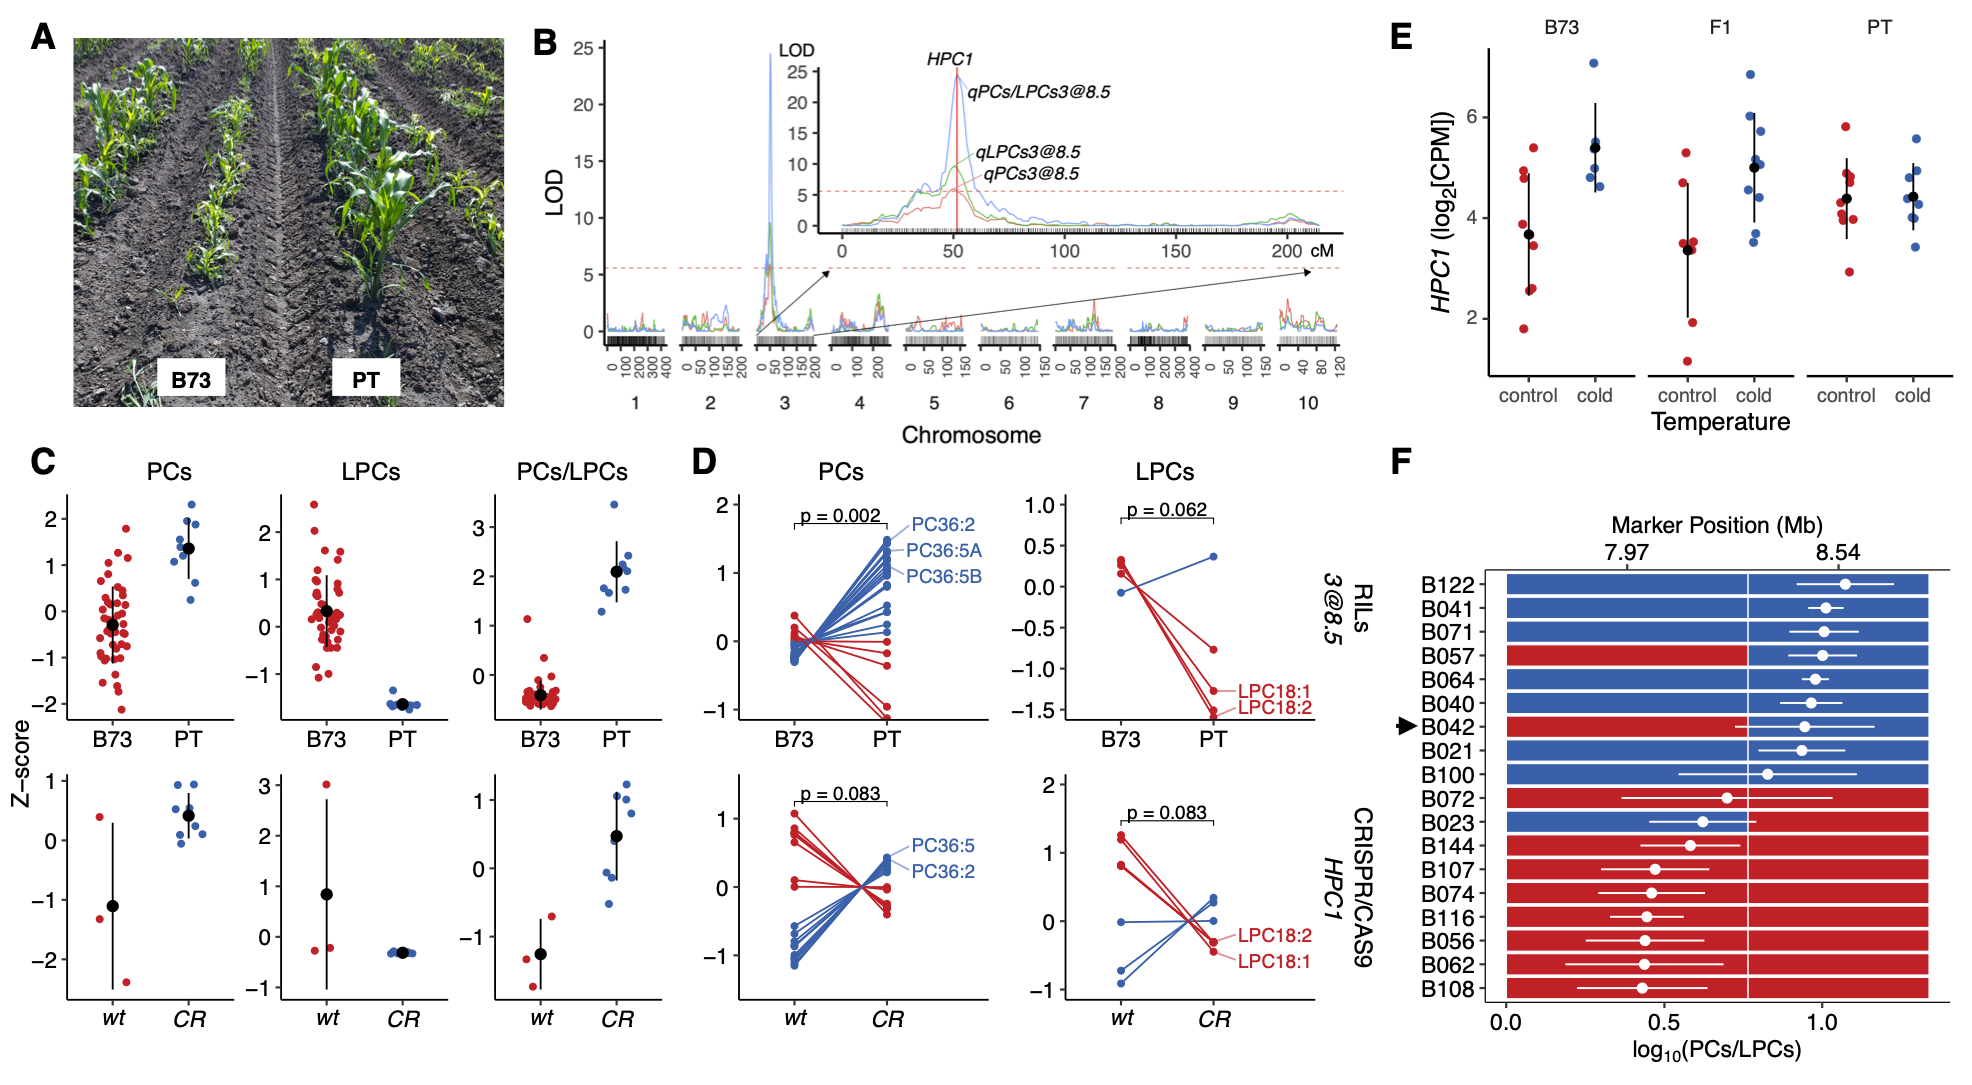
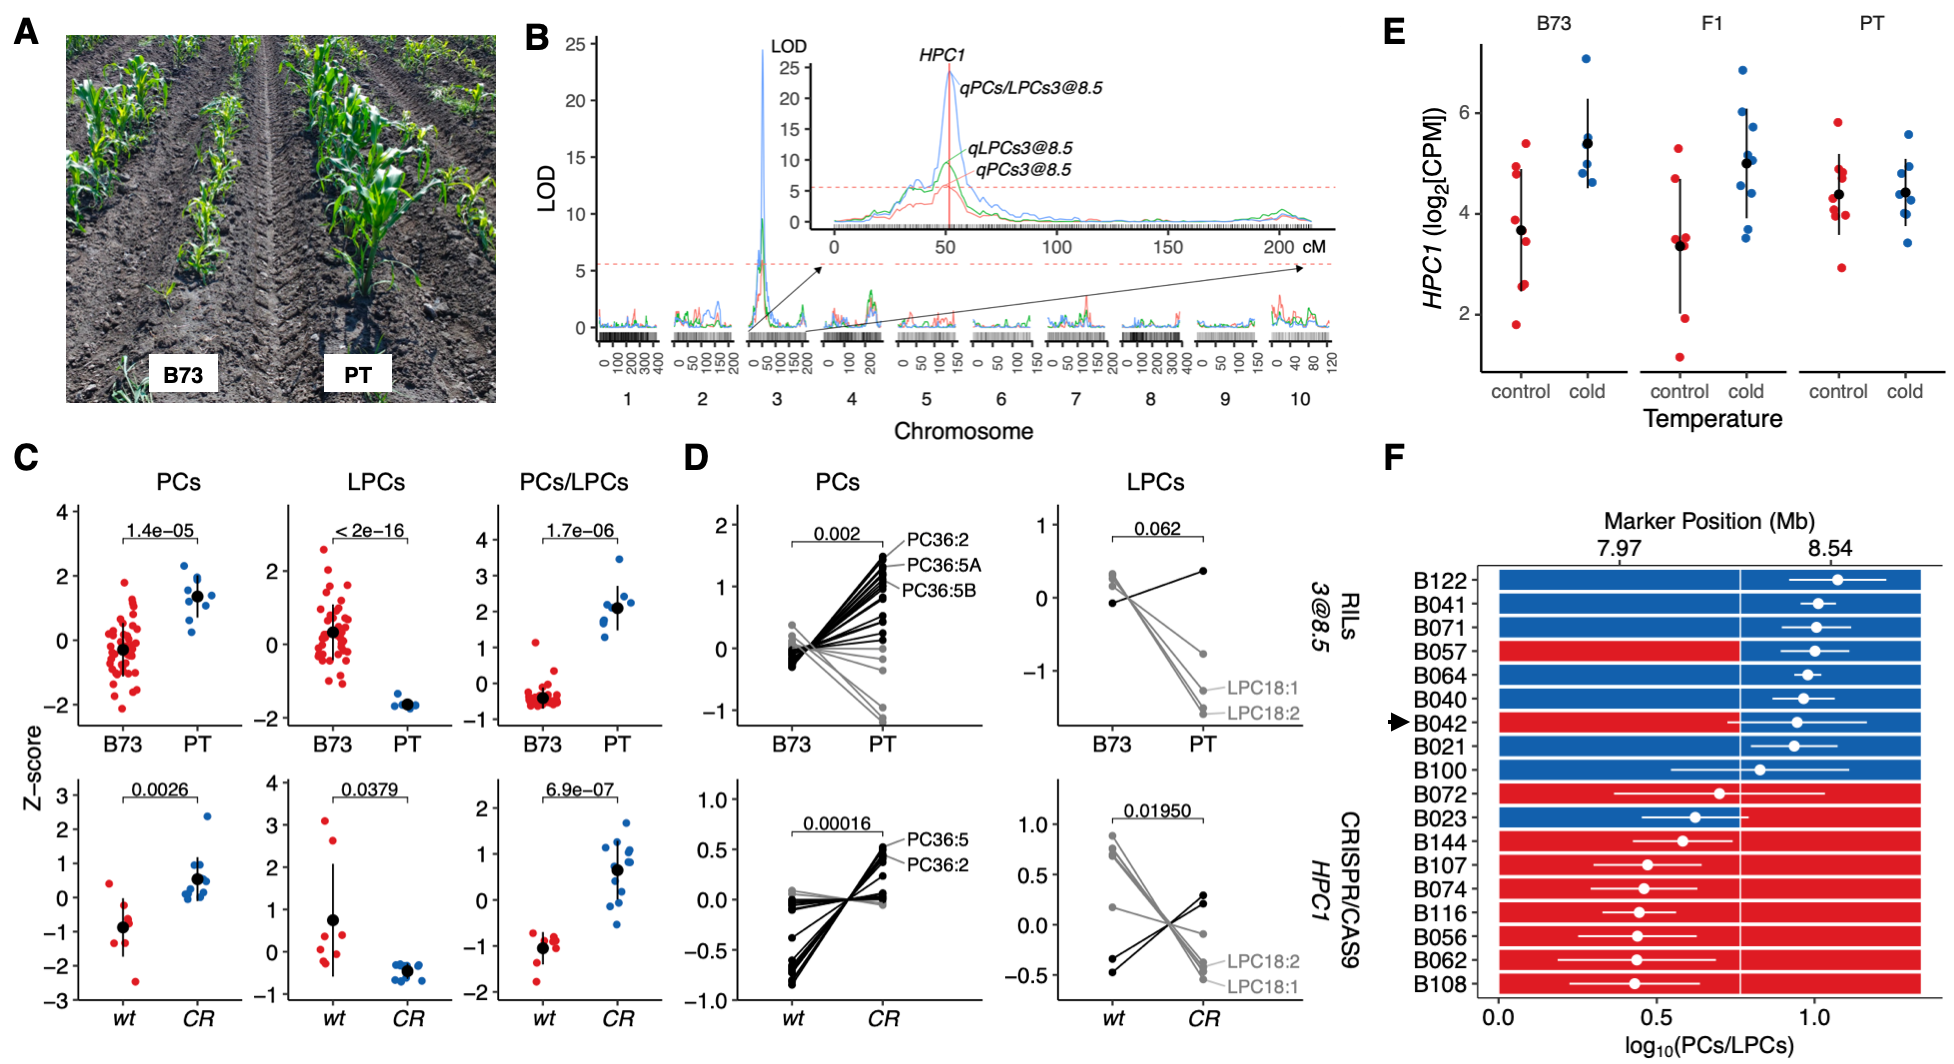
Before addressing reviewer's comments

diff --git a/main.tex b/main.tex
@@ -150,7 +150,7 @@ Photoperiod-insensitive maize from the Northern US and Canada thrived when intro
 Introgression of highland-adapted teosinte \textit{mexicana} into highland maize can be a critical source of adaptive genetic variation for modern maize adapted to high latitudes.
 However, genetic, physiological and phenotypic evidence of such events is  limited.
 
-Plant phospholipids, as well as other glycerolipids such as sulfolipids, galactolipids and less polar lipids such as triacylglycerols, are involved in plant responses to low temperature.
+Plant phospholipids, as well as other glycerolipids such as sulfolipids, galactolipids and non polar lipids such as triacylglycerols, are involved in plant responses to low temperature.
 Phospholipid levels are increased in plants exposed to low temperatures \cite{Degenkolbe2012-wf} and levels of unsaturated fatty acids in glycerolipids are reduced \cite{Welti2002-uk, Lynch1987-ln}, which may help maintain the fluidity of cell membranes.
 Under stressful conditions, the proportions of differently shaped lipids in plants are modulated to maintain membrane flexibility while preventing membrane leakage. 
 For instance, phosphatidylcholines (PCs) are rectangular polar lipids that are well suited for the formation of bilayer membranes because the size of their glycerol backbone, choline headgroup and fatty acid tails are similar.
@@ -216,9 +216,9 @@ Lower panels zoom in on areas of outlier SNPs that co-localize with the physical
 \textbf{A)} PT and B73 plants growing in the highland Metepec field. 
 \textbf{B)} QTL analysis using data collected from plants growing in the highland and lowland fields for PC and LPC levels and the PC/LPC ratio identified overlapping major QTLs at 8.5 Mb on chromosome 3. 
 The QTL peaks coincide with the physical location of \textit{HPC1}. 
-\textbf{C)} Effect sizes for PCs, LPCs and PC/LPCs (z-score normalized) in RILs at 8.5 Mb on chromosome 3 that are either homozygous for B73 or PT (top row) and CRISPR-Cas9 \textit{hpc1\textsuperscript{CR}} mutant and wild-type plants (bottom row).        
+\textbf{C)} Effect sizes for PCs, LPCs and PC/LPCs (z-score normalized) in RILs at 8.5 Mb on chromosome 3 that are either homozygous for B73 or PT (top row) and CRISPR-Cas9 \textit{hpc1\textsuperscript{CR}} mutant and wild-type plants (bottom row), \textit{t}-test \textit{p}-values.        
 \textbf{D)} Effect sizes for individual PC and LPC species (z-score normalized) in RILs at 8.5 Mb on chromosome 3 (top row) and CRISPR/Cas9 \textit{hpc1\textsuperscript{CR}} mutant.
-\textbf{E)} \textit{HPC1} expression analysis in B73, PT and their F\textsubscript{1} hybrids grown in standard and cold temperatures in a growth chamber.
+\textbf{E)} \textit{HPC1} expression analysis in B73, PT and their F\textsubscript{1} hybrids grown in standard and cold temperatures in a growth chamber, positive effects in black, negative effects in grey, \textit{p}-values from Wilcox ranked paired test.
 \textbf{F)}PC/LPC ratio for several RILs. RIL B042 (indicated by the black arrow) bears a recombination event 500 bp upstream of the \textit{HPC1} translation start codon.
 In panels C-F, phenotypes associated with the B73 haplotype are in red; the equivalent values for the PT haplotype are in blue.}
 \label{Fig3}
@@ -437,7 +437,7 @@ In addition, \textit{HPC1} is highly expressed in B73 and other temperate inbred
 In our experiments, \textit{HPC1} was up-regulated in B73 and the B73 x PT F\textsubscript{1} hybrids after cold exposure. 
 By contrast, the \textit{HPC1-PT} allele was expressed at similar levels as \textit{HPC1-B73} in control conditions, and was not up-regulated in cold conditions (Figure \ref{Fig3}E).
 In Arabidopsis, \textit{LPCAT1} is involved in modulating phosphorus levels in leaves under low zinc conditions \cite{Kisko2018-zm}.
-In maize, a positive signal from a genome-wide association study (GWAS) 45 kb upstream of \textit{ZmLPCAT1} was associated with flowering time under low phosphorus conditions, further lending support to a possible role for natural variation at \textit{ZmLPCAT1} in plant adaptation to low phosphorus availability. 
+In maize, a positive signal from a genome-wide association study (GWAS) 45 kb upstream of \textit{ZmLPCAT1} is associated with flowering time under low phosphorus conditions \cite{xu2018a}, further lending support to a possible role for natural variation at \textit{ZmLPCAT1} in plant adaptation to low phosphorus availability. 
 
 Our QTL analysis of the PC/LPC ratios in a B73 x PT mapping population and in the \textit{hpc1\textsuperscript{CR}} mutant demonstrates that the highland \textit{HPC1-PT} allele results in an enzyme with impaired function that alters highland Mexican maize PC metabolism, leading to higher PC/LPC ratios (Figure \ref{Fig3}). 
 Using the PC/LPC ratio as a phenotype, we obtained much more significant LOD QTL signals than when using PC or LPC levels alone, possibly because the ratio can much more precisely capture genetically-induced changes in enzymatic activity \cite{Petersen2012-ii}.
